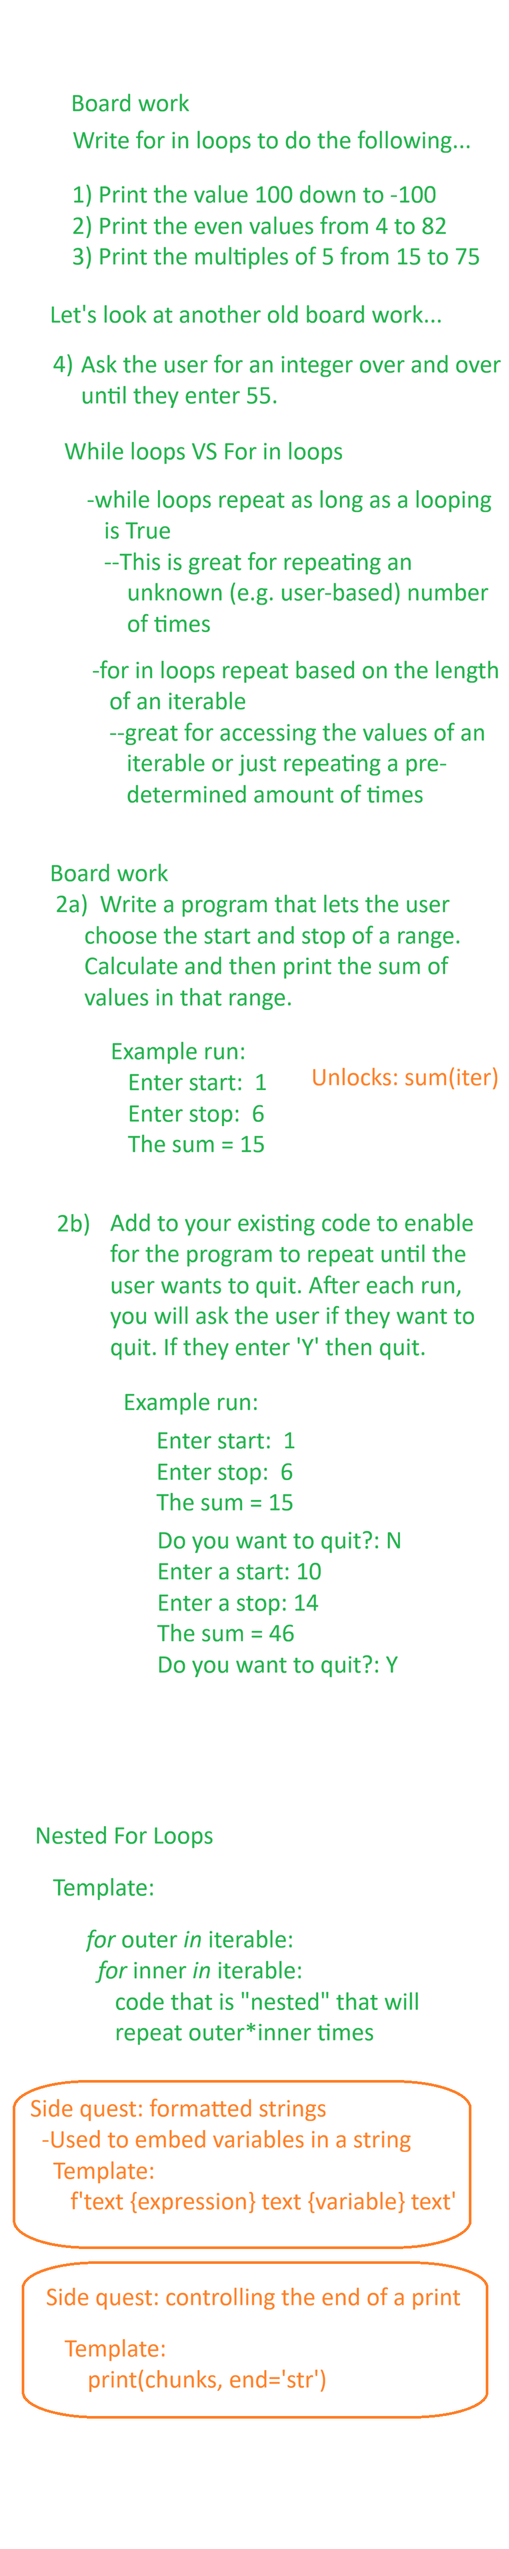
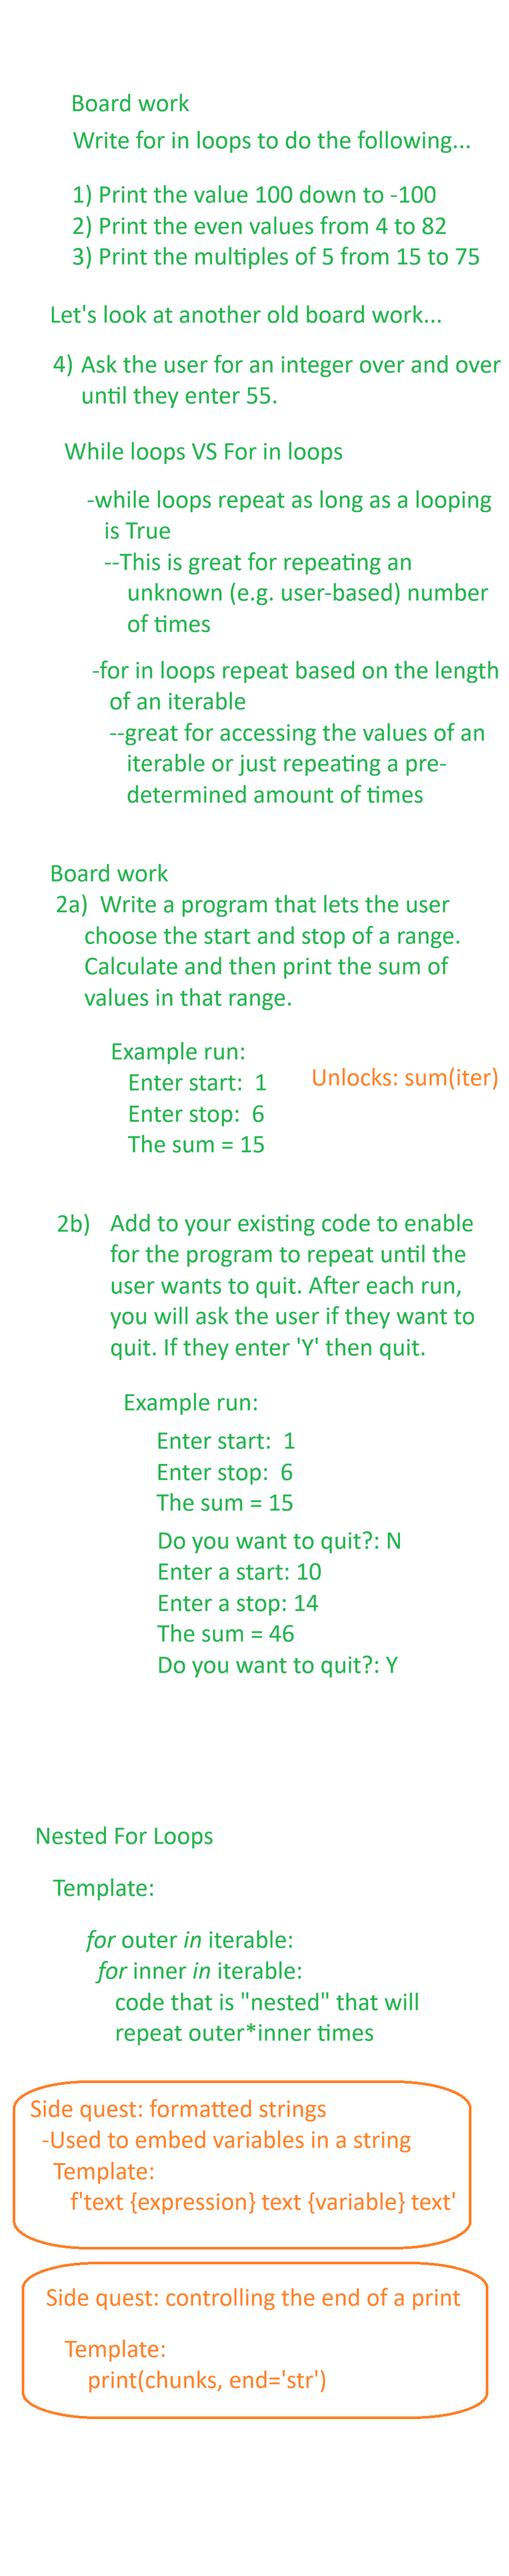
Add 168 notes

diff --git a/eecs168/2026fall/TR/2026.09.24.nested-loops-and-patterns/patterndemo.py b/eecs168/2026fall/TR/2026.09.24.nested-loops-and-patterns/patterndemo.py
@@ -1,0 +1,11 @@
+#Goal: Print 3x5 grid of *'s
+
+num_rows = 3
+num_cols = 5
+
+for row in range(num_rows):
+    for col in range(num_cols):
+        print('*', end='')
+
+    #print a newline
+    print('')
